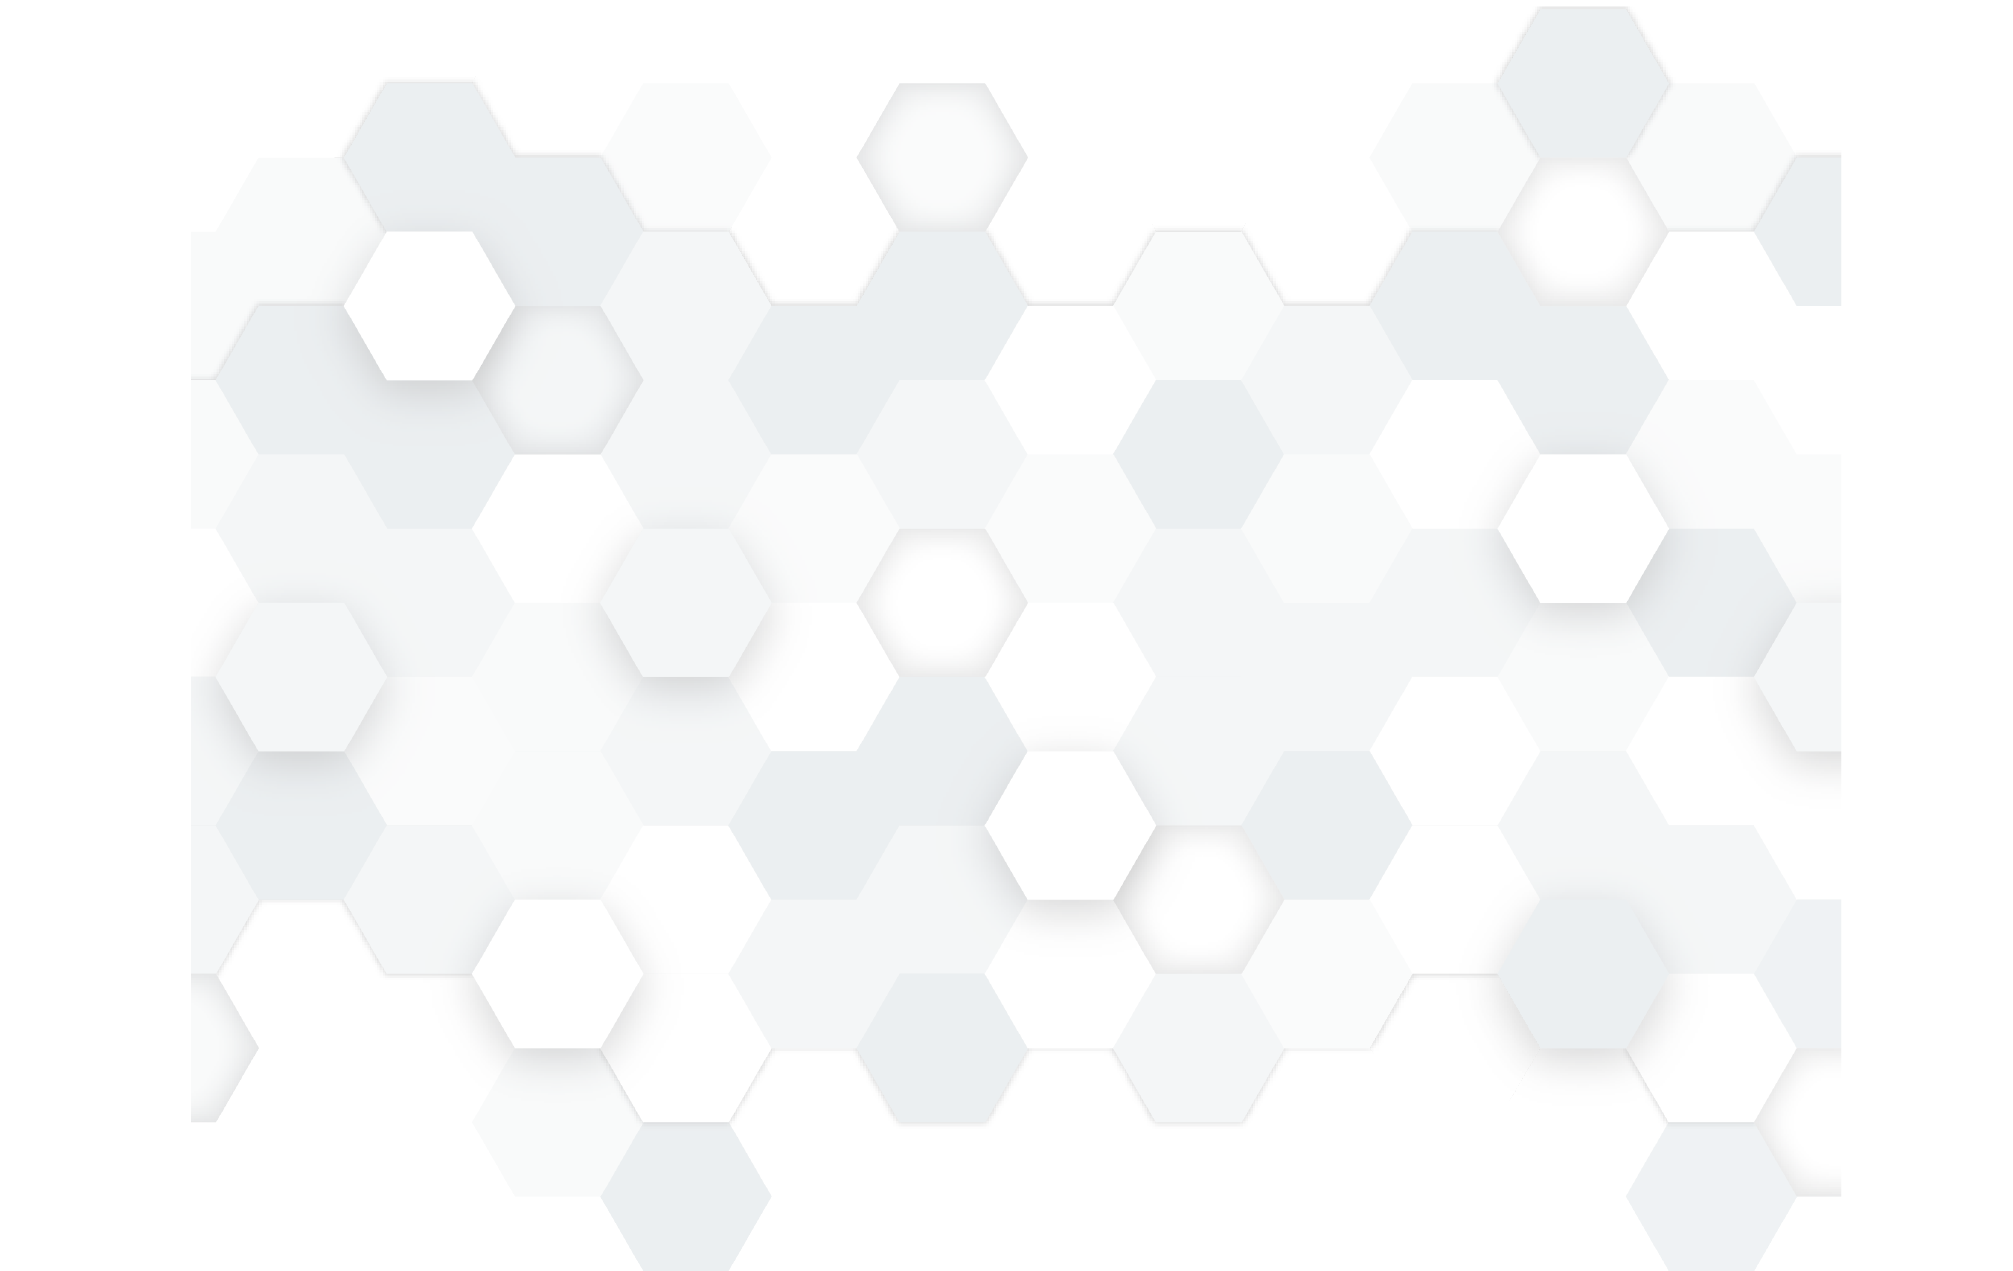
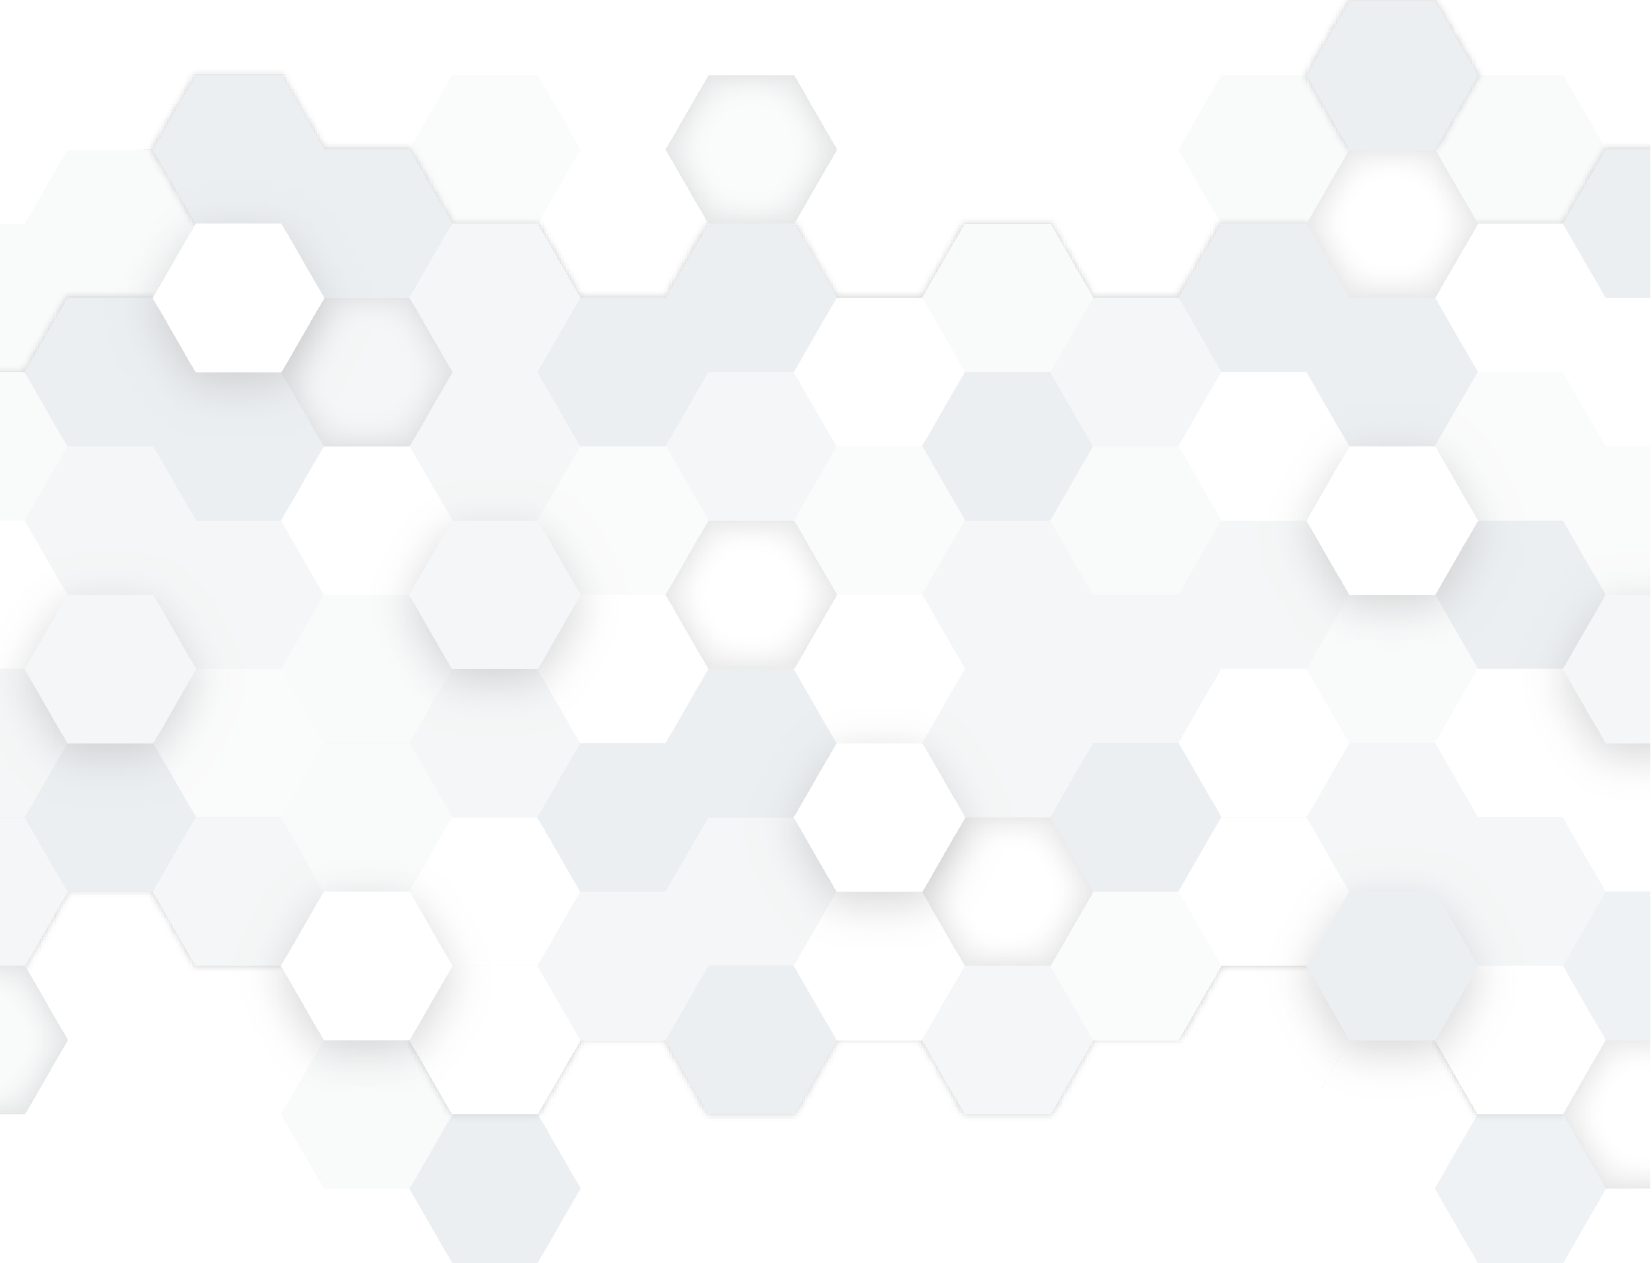
Test using position absolute

diff --git a/main.css b/main.css
@@ -35,14 +35,32 @@ body {
 }
 
 .hero {
-    background-image: url("images/Background_Hex.png");
+    /* background-image: url("images/Background_Hex.png"); */
     height: 800px;
     position: relative;
-    background-repeat: no-repeat;
+    /* background-repeat: no-repeat;
     background-attachment: fixed;
-    background-position: center; 
+    background-position: center;  */
     max-width: 1100px;
     margin: auto;
+
+    
+}
+
+.hero .background {
+    position: absolute;
+    left: 0;
+    top: 0;
+    width: 100%;
+    height: 100%;
+}
+
+.hero .content-wrapper {
+    position: absolute;
+    width: 100%;
+    height: 100%;
+    top: 0;
+    left: 0;
 }
 
 @media screen and (max-width: 600px) {

diff --git a/scripts/Hero.js b/scripts/Hero.js
@@ -12,12 +12,16 @@ class Hero extends React.Component {
   render() {
     return (
       <div className="hero">
-        <Navbar />
-        <img className="logo" src="images/Asset 9.png"/>
+        <img className="background" src="images/Background_Hex.png"/>
+        <div className="content-wrapper">
+          <Navbar />
+          <img className="logo" src="images/Asset 9.png" />
 
-        <div className="call-to-action">
-          <a onClick={this.clickHandler}>Schedule time with us</a>
+          <div className="call-to-action">
+            <a onClick={this.clickHandler}>Schedule time with us</a>
+          </div>
         </div>
+        
       </div>
     )
   }
